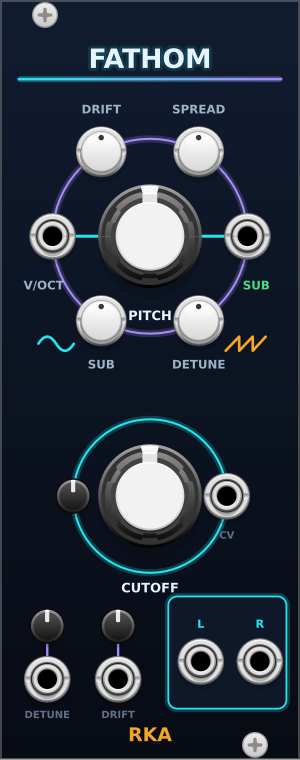
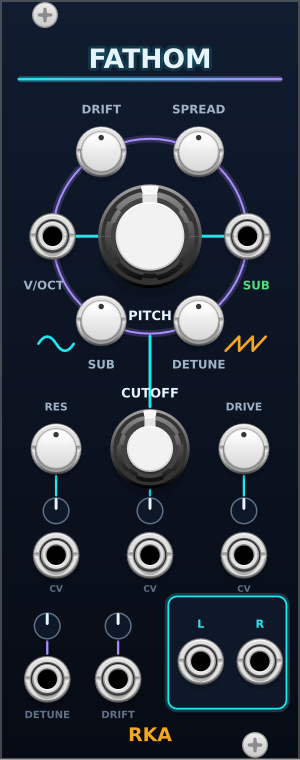
Fathom: filter manual, changelog, readme

Changed region(s): [[0.09, 0.4237, 0.9, 0.8474]]

diff --git a/docs/fathom/README.md b/docs/fathom/README.md
@@ -1,9 +1,10 @@
 # Fathom
 
 Deep bass drone voice, 10 HP: a sine sub under a seven-saw supersaw body,
-slow drift so a held note keeps breathing, and a low-pass to close it down.
-One V/Oct in, stereo out, a separate sub out. Made for dark and space
-ambient, where one note is held for minutes.
+slow drift so a held note keeps breathing, and a Moog-style ladder filter
+with resonance and drive to close it down or make it growl. One V/Oct in,
+stereo out, a separate sub out. Made for dark and space ambient, where one
+note is held for minutes.
 
 ![Fathom panel](Fathom.png)
 
@@ -35,28 +36,53 @@ root itself is the sub.
   second, slewed over a second. The sub drifts in level only. 0 % is
   static.
 
-## Cutoff
+## Filter
 
-- **CUTOFF**: a 12 dB/oct low-pass on the whole mix, 20 Hz – 20 kHz,
-  default 1.2 kHz, smoothed over 20 ms so sweeps don't zipper. No
-  resonance in this version.
+A four-pole transistor ladder in the Moog manner, run at twice the
+engine rate so driving it doesn't alias. Each stage saturates, so a hot
+signal compresses the filter against itself: that is the growl.
+
+- **CUTOFF**: the ladder's pole frequency, 20 Hz – 20 kHz, default
+  1.2 kHz. With resonance up, the peak sits here.
+- **RES**: resonance, from flat to self-oscillation at the very top. The
+  low end is held steady as resonance rises in the low-pass types, so the
+  drone keeps its weight while the peak moves. At the top the ladder
+  sings a quiet sine that tracks CUTOFF at 1 V/oct.
+- **DRIVE**: gain into the ladder's saturators, from half to eight times.
+  Unity at 25 %. The level is made up as it rises, so DRIVE changes the
+  tone far more than the loudness; push it with RES up for the growl.
+- Right-click **Filter type**: low-pass 24 dB (default), low-pass 12 dB,
+  band-pass or high-pass, all from the same ladder.
+- Right-click **Sub through filter**: off by default, so the sub joins the
+  mix after the filter and CUTOFF never thins it. On, the sub goes
+  through the ladder too, for closing everything down.
+- CUTOFF, RES and DRIVE are smoothed over 20 ms so sweeps don't zipper.
 
 ## CV
 
-- **DETUNE** and **DRIFT** jacks with attenuverters: ±5 V at full sweeps
-  the knob's whole range.
+- **DETUNE**, **DRIFT**, **RES** and **DRIVE** jacks with attenuverters:
+  ±5 V at full sweeps the knob's whole range.
 - **CUTOFF CV** with attenuverter: 1 V/oct at full clockwise.
 
 ## Outputs
 
 - **L / R**: the mix, ±5 V, through a soft clipper (mild saturation at
   the defaults, more as SUB and DETUNE go up) and a DC blocker.
-- **SUB**: the sub sine alone, ±5 V, before the SUB knob, CUTOFF and the
-  clipper, so it can feed a sub bus or a side-chain however the mix is
-  set.
+- **SUB**: the sub sine alone, ±5 V, before the SUB knob, the filter and
+  the clipper, so it can feed a sub bus or a side-chain however the mix
+  is set.
 
 ## Credits
 
 The supersaw's detune ratios and mix curves are adapted from Befaco's
 [Oneiroi](https://github.com/Befaco/Oneiroi) firmware (GPL-3.0-or-later),
 after Adam Szabo, *How to Emulate the Super Saw* (2010).
+
+The ladder's structure, its rational tan and tanh approximations and the
+2x halfband pair are adapted from VCV
+[Fundamental](https://github.com/VCVRack/Fundamental)'s VCF
+(GPL-3.0-or-later), after Antti Huovilainen, *Non-linear digital
+implementation of the Moog ladder filter* (DAFx 2004), Vadim Zavalishin,
+*The Art of VA Filter Design*, and Teemu "Mystran" Voipio's per-stage
+tanh linearisation. The type mixing is the Oberheim Xpander's pole-mixing
+table, via Electric Druid's write-up.

diff --git a/README.md b/README.md
@@ -5,7 +5,7 @@ VCV Rack 2 modules.
 | Module | HP | Description |
 |---|---|---|
 | [**Sway**](docs/sway/README.md) | 18 | Polyphonic LFO: classic and morphing waves, random, EOC, clock sync, phase spread, one-shot |
-| [**Fathom**](docs/fathom/README.md) | 10 | Deep bass drone voice: sub sine, 7-saw supersaw, drift, low-pass |
+| [**Fathom**](docs/fathom/README.md) | 10 | Deep bass drone voice: sub sine, 7-saw supersaw, drift, ladder filter |
 
 Each module's manual is in its own folder.
 
@@ -31,8 +31,10 @@ src/sway/                the Sway module
   test_*.cpp             offline unit tests, one per DSP unit
   SwayLayout.hpp         component positions, generated, do not edit
 src/fathom/              the Fathom drone voice, same shape: Fathom.cpp,
-                         Svf.hpp, SuperSaw.hpp, Drift.hpp, DroneVoice.hpp,
-                         test_*.cpp, FathomLayout.hpp
+                         Svf.hpp, SuperSaw.hpp, Drift.hpp, Ladder.hpp,
+                         Halfband.hpp, DroneVoice.hpp, test_*.cpp,
+                         FathomLayout.hpp
+res/components/          the plugin's own knob SVGs (the trim), generated
 res/<module>/            final panels, text as paths (what Rack loads)
 res-src/<module>/        generated SVGs with live text (input to Inkscape)
 docs/<module>/           the module's manual and panel image
@@ -74,8 +76,12 @@ green). Outputs are colour-coded by accent. The palette lives in
 `ACCENTS`/`THEMES` in `tools/gen_panels.py`; the default panel and Rack's
 "dark panels" variant are the same design, the dark one dimmer. Rack can't
 blur, so glows are a faint wide stroke under a thin bright one. Use the
-widgets in `src/widgets.hpp` (`rka::BigKnob`, `rka::SmallKnob`,
-`rka::CyanMagentaLight`) rather than stock ones so modules match.
+widgets in `src/widgets.hpp` (`rka::BigKnob`, `rka::MidKnob`,
+`rka::SmallKnob`, `rka::Trim`, `rka::CyanMagentaLight`) rather than stock
+ones so modules match. `rka::Trim` is the plugin's own 4.6 mm
+attenuverter; `gen_panels.py` draws its SVGs into `res/components/` from
+the palette, and its `RADII` table keeps components clear of each other
+and draws ticks edge to edge.
 
 ### Changing a panel
 

diff --git a/CHANGELOG.md b/CHANGELOG.md
@@ -20,9 +20,16 @@
     supersaw body with the JP-8000's detune and mix curves (after
     Befaco Oneiroi / Szabo), high-passed at the fundamental.
   - PITCH (snapped to semitones, C2 at centre; free in the menu), SUB,
-    DETUNE, SPREAD, DRIFT and CUTOFF (12 dB/oct low-pass).
+    DETUNE, SPREAD and DRIFT.
   - DRIFT walks each saw's pitch and level slowly so a held note moves.
-  - CV with attenuverters for DETUNE, DRIFT and CUTOFF (1 V/oct).
+  - A Moog-style four-pole ladder filter, 2x oversampled, with CUTOFF,
+    RES (to self-oscillation) and DRIVE into its saturators; the low end
+    holds steady as resonance rises. Low-pass 24, low-pass 12, band-pass
+    and high-pass in the menu, and a choice of the sub going through the
+    filter or around it.
+  - CV with attenuverters for DETUNE, DRIFT, RES, DRIVE and CUTOFF
+    (1 V/oct).
   - Stereo out through a soft clipper, plus a separate SUB out.
 - "Nightglow" look shared by all modules: navy panels, glowing cards,
-  colour-coded outputs, white knobs; panels can carry glowing rings.
+  colour-coded outputs, white knobs, and the plugin's own small
+  attenuverter trim; panels can carry glowing rings.

diff --git a/CLAUDE.md b/CLAUDE.md
@@ -17,8 +17,8 @@ layout.
   released module.
 - One shared look ("Nightglow", see README): palette in
   `tools/gen_panels.py`, shared knobs/lights in `src/widgets.hpp`. Don't use
-  stock knobs or ad-hoc colours in a module. `src/RkaTheme.hpp` is
-  generated.
+  stock knobs or ad-hoc colours in a module. `src/RkaTheme.hpp` and
+  `res/components/` (the trim's SVGs) are generated.
 - `RACK_DIR` is set in `~/.bashrc` (`~/ws/sdk/Rack-SDK`, 2.6.6). Non-login
   shells may not have it; pass `RACK_DIR=$HOME/ws/sdk/Rack-SDK` to make.
   On the Mac (arm64) it's in `~/.zshrc`:
